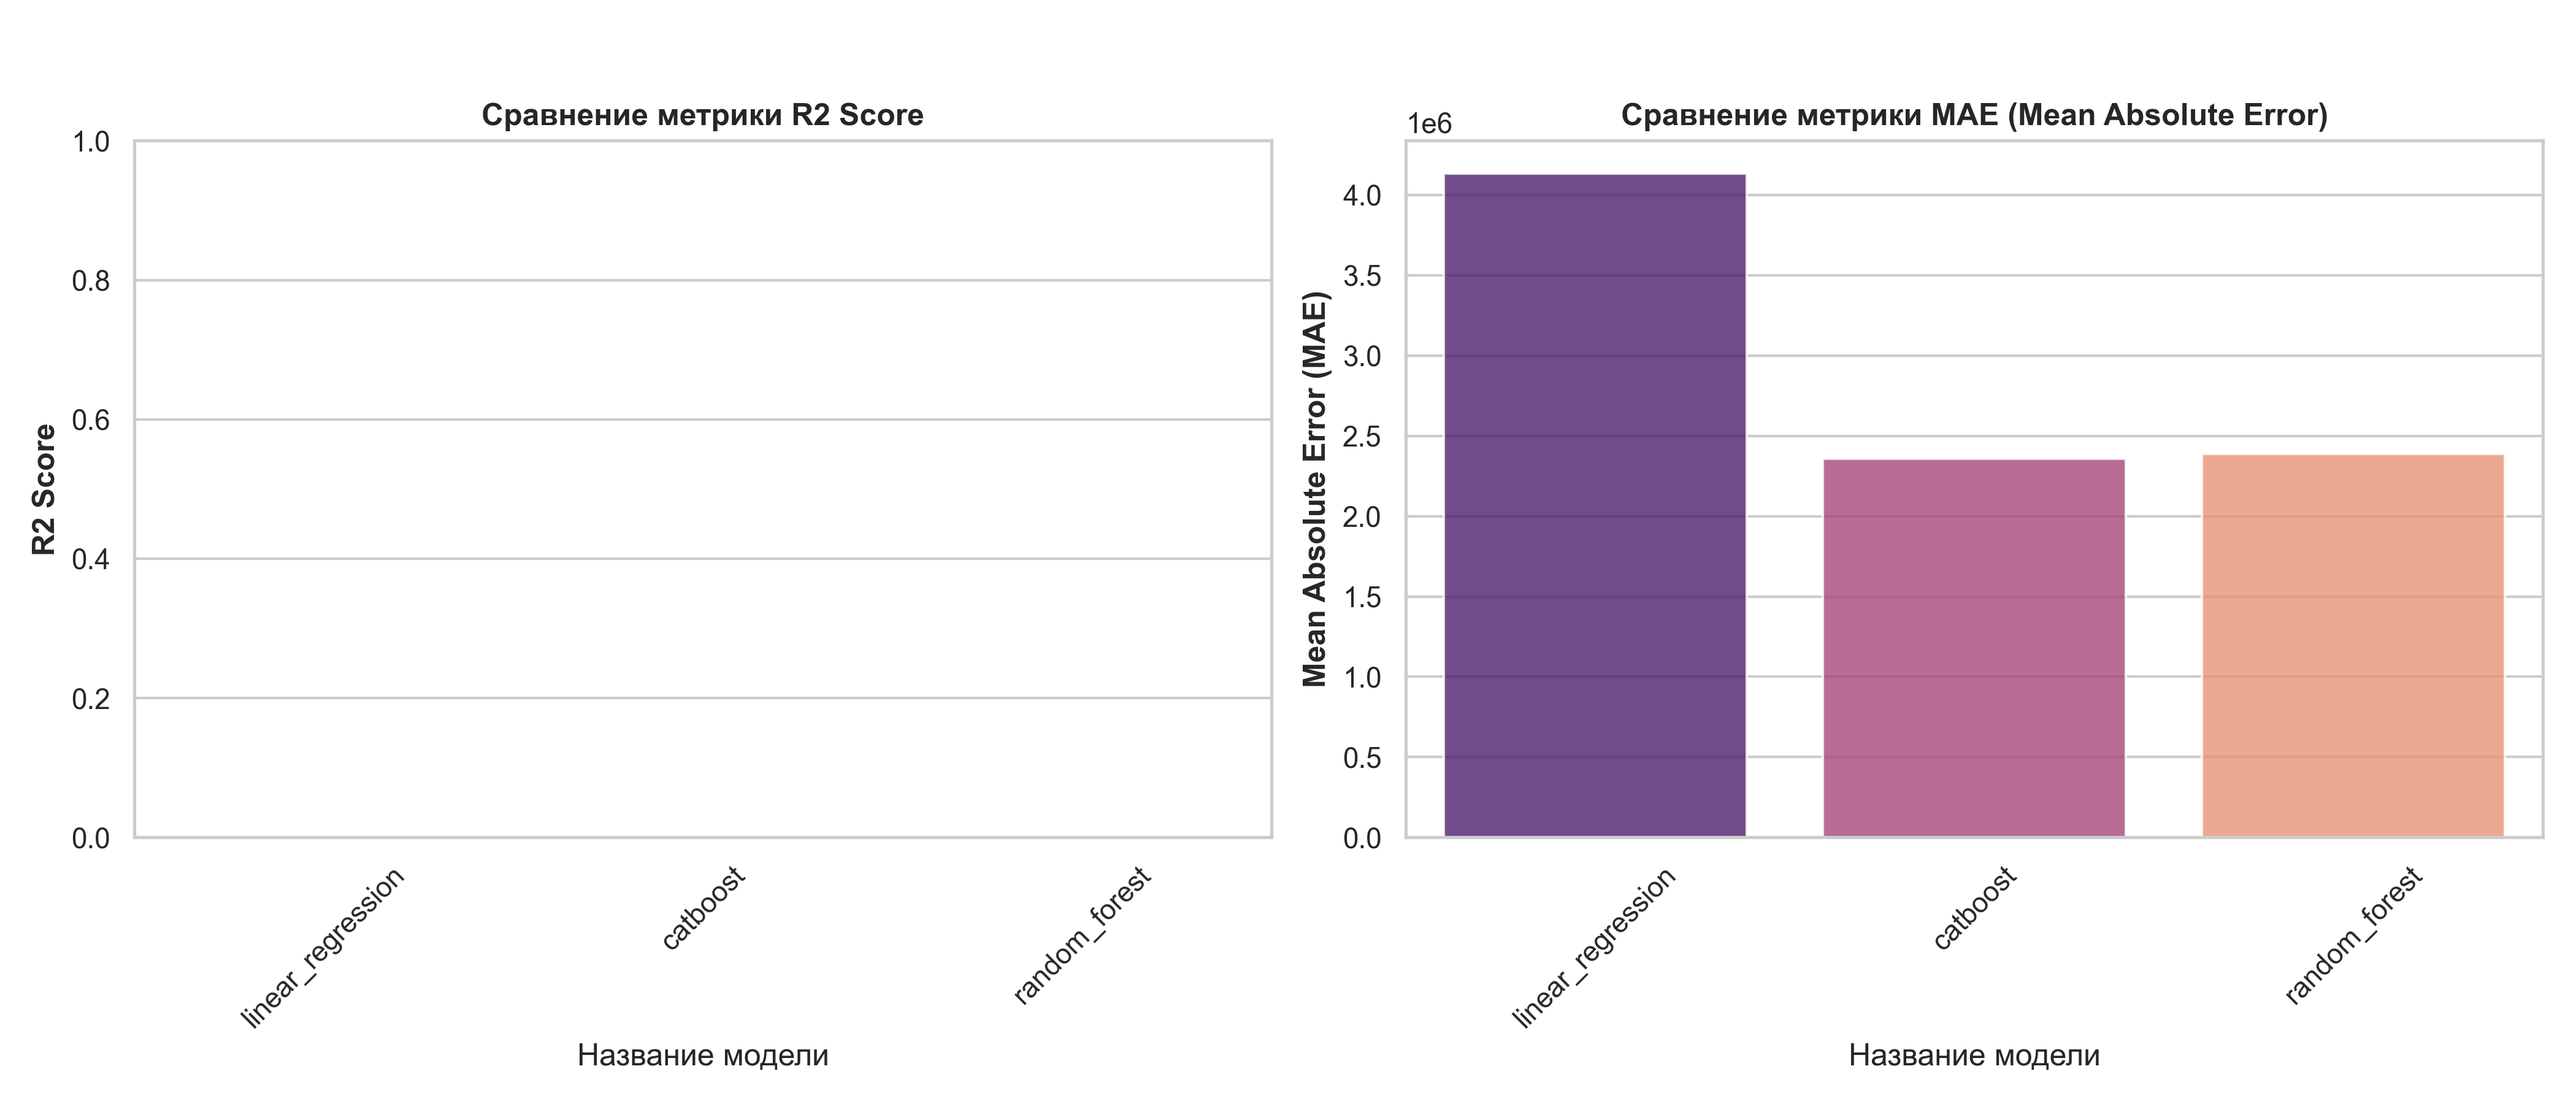
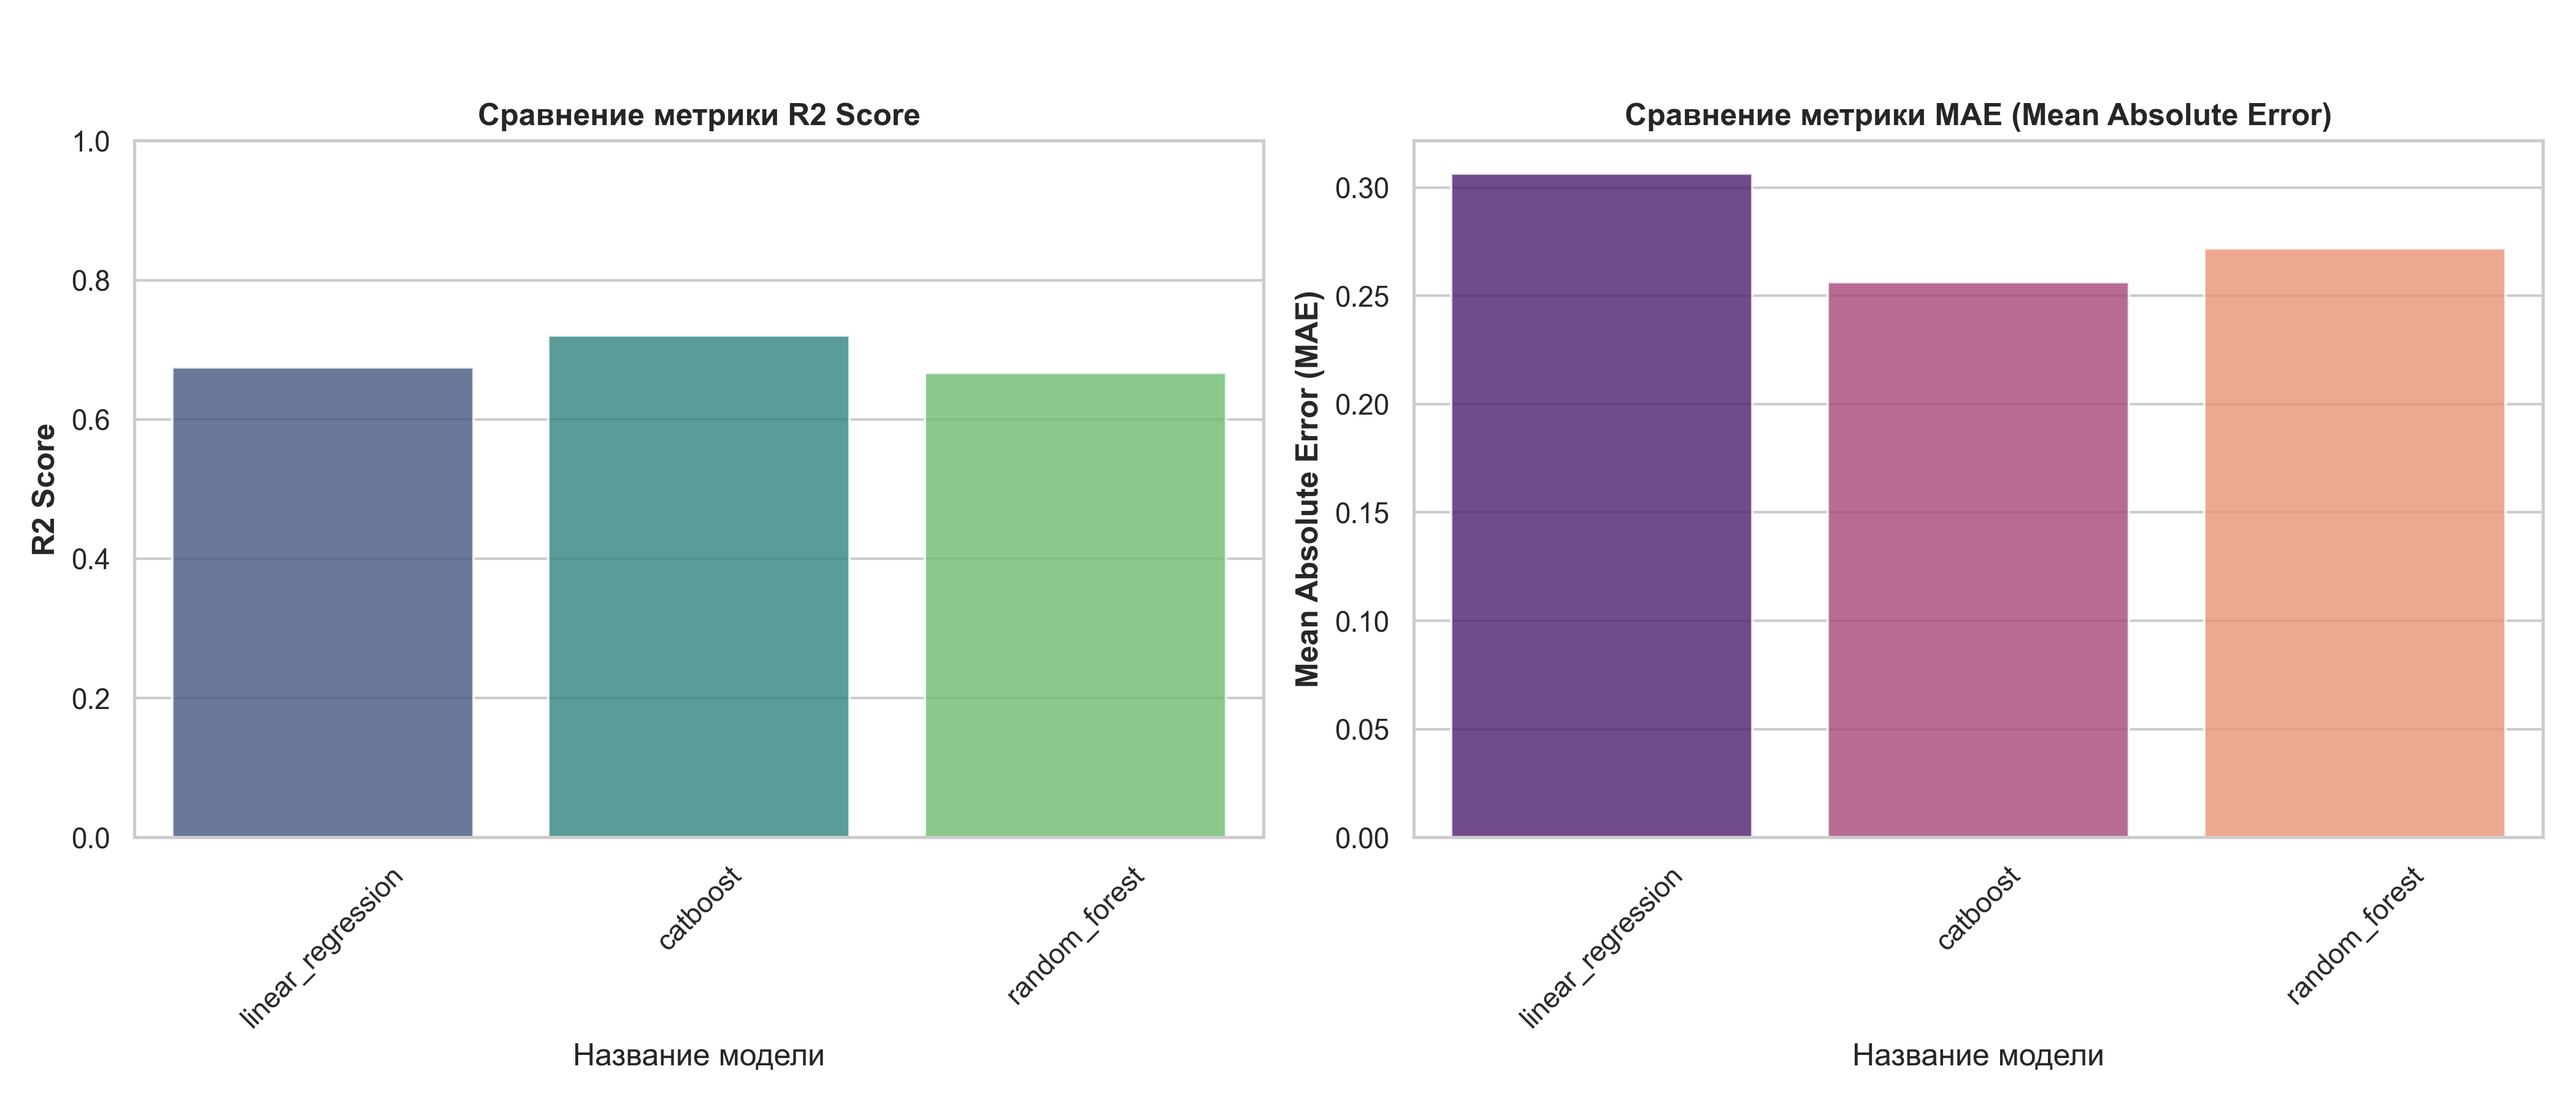
fix r2 score in models

diff --git a/main.py b/main.py
@@ -9,6 +9,7 @@ This script orchestrates the entire workflow:
 """
 
 import sys
+import numpy as np
 import pandas as pd
 from pathlib import Path
 
@@ -57,7 +58,9 @@ def main():
     except FileNotFoundError as e:
         logger.error(e)
         sys.exit(1)
-    
+
+    # data = data.sample(n=50000, random_state=42)
+    data['price'] = np.log1p(data['price'])
     logger.info(f"Data loaded successfully. Shape: {data.shape}")
     print(data.head(5))
 
@@ -92,7 +95,7 @@ def main():
     logger.info(f"Results saved to {report_path}")
     
     trainer.plot_metrics(output_dir=REPORTS_DIR)
-    
+
     if not results.empty:
         best_model = results.sort_values(by="r2_score", ascending=False).iloc[0]
         logger.info(f"Best model based on R2 Score: {best_model['model_name']} (R2: {best_model['r2_score']:.4f})")
